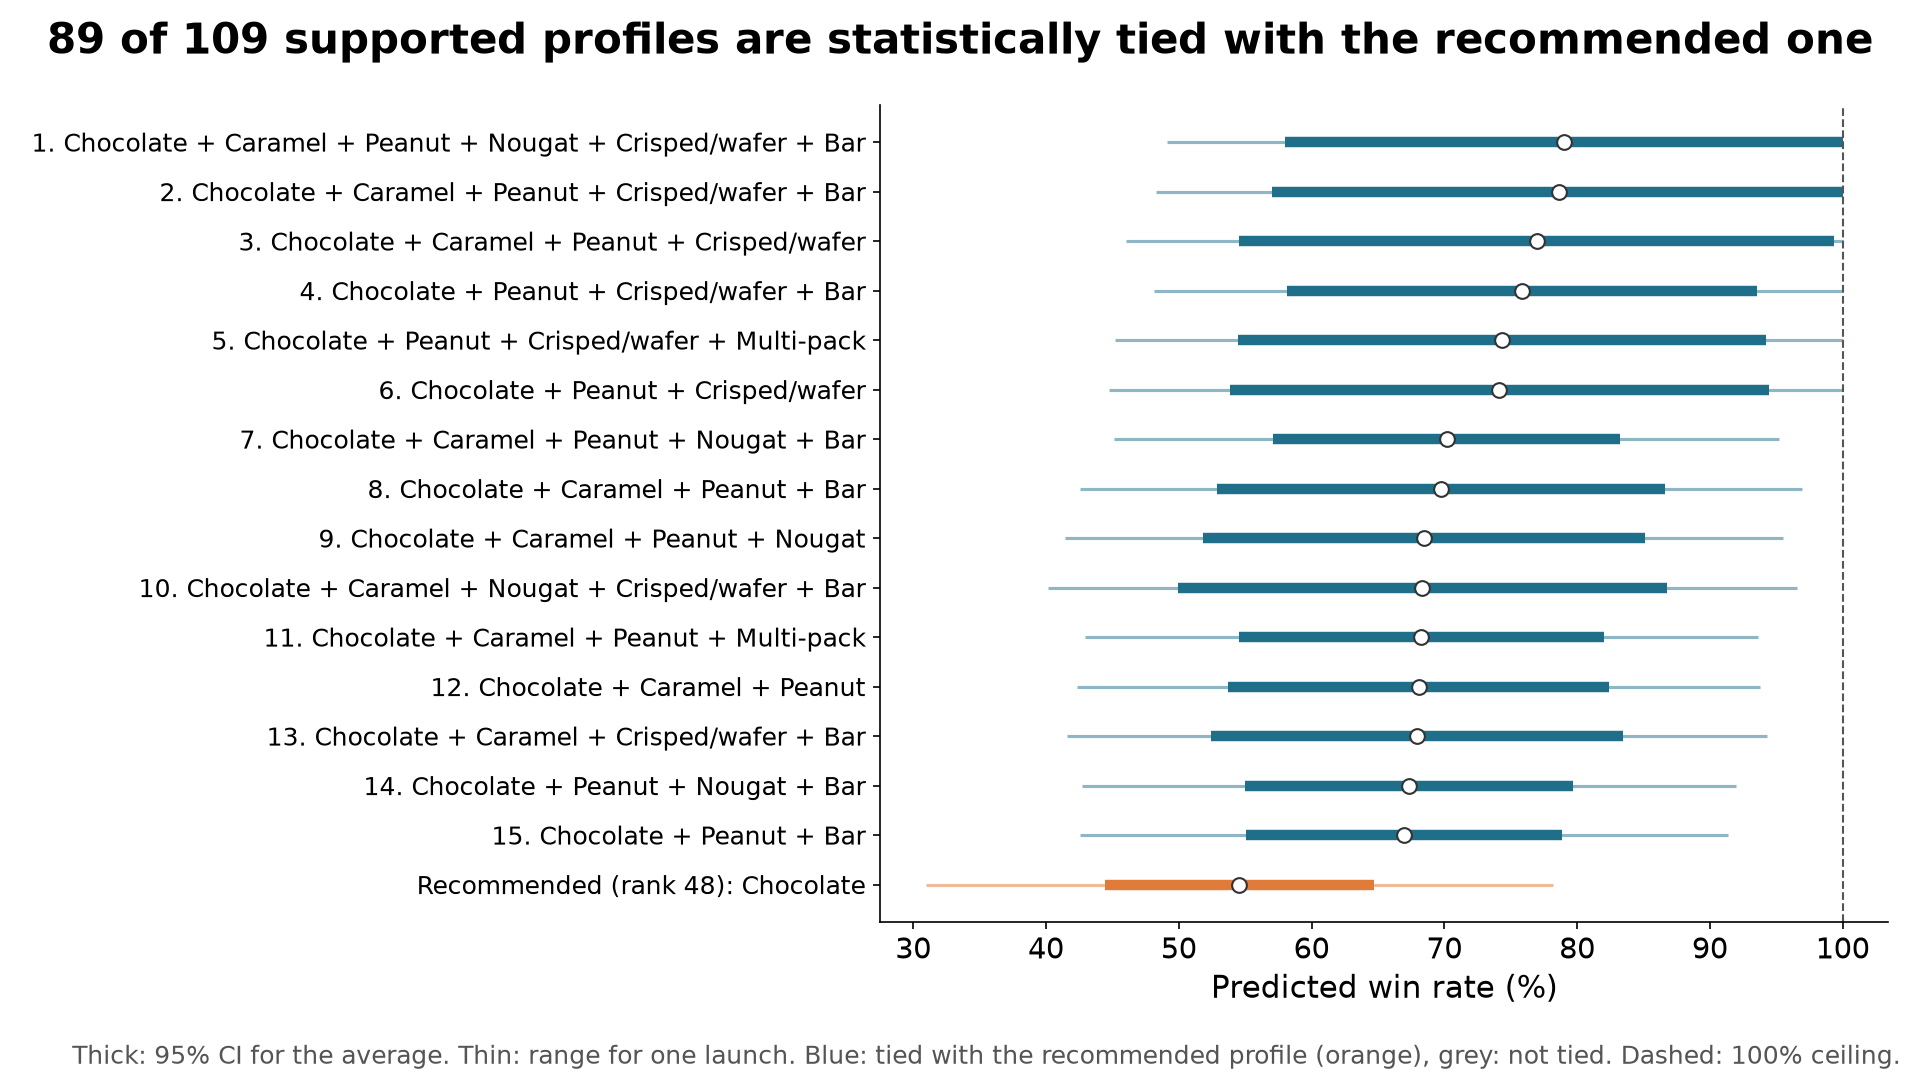
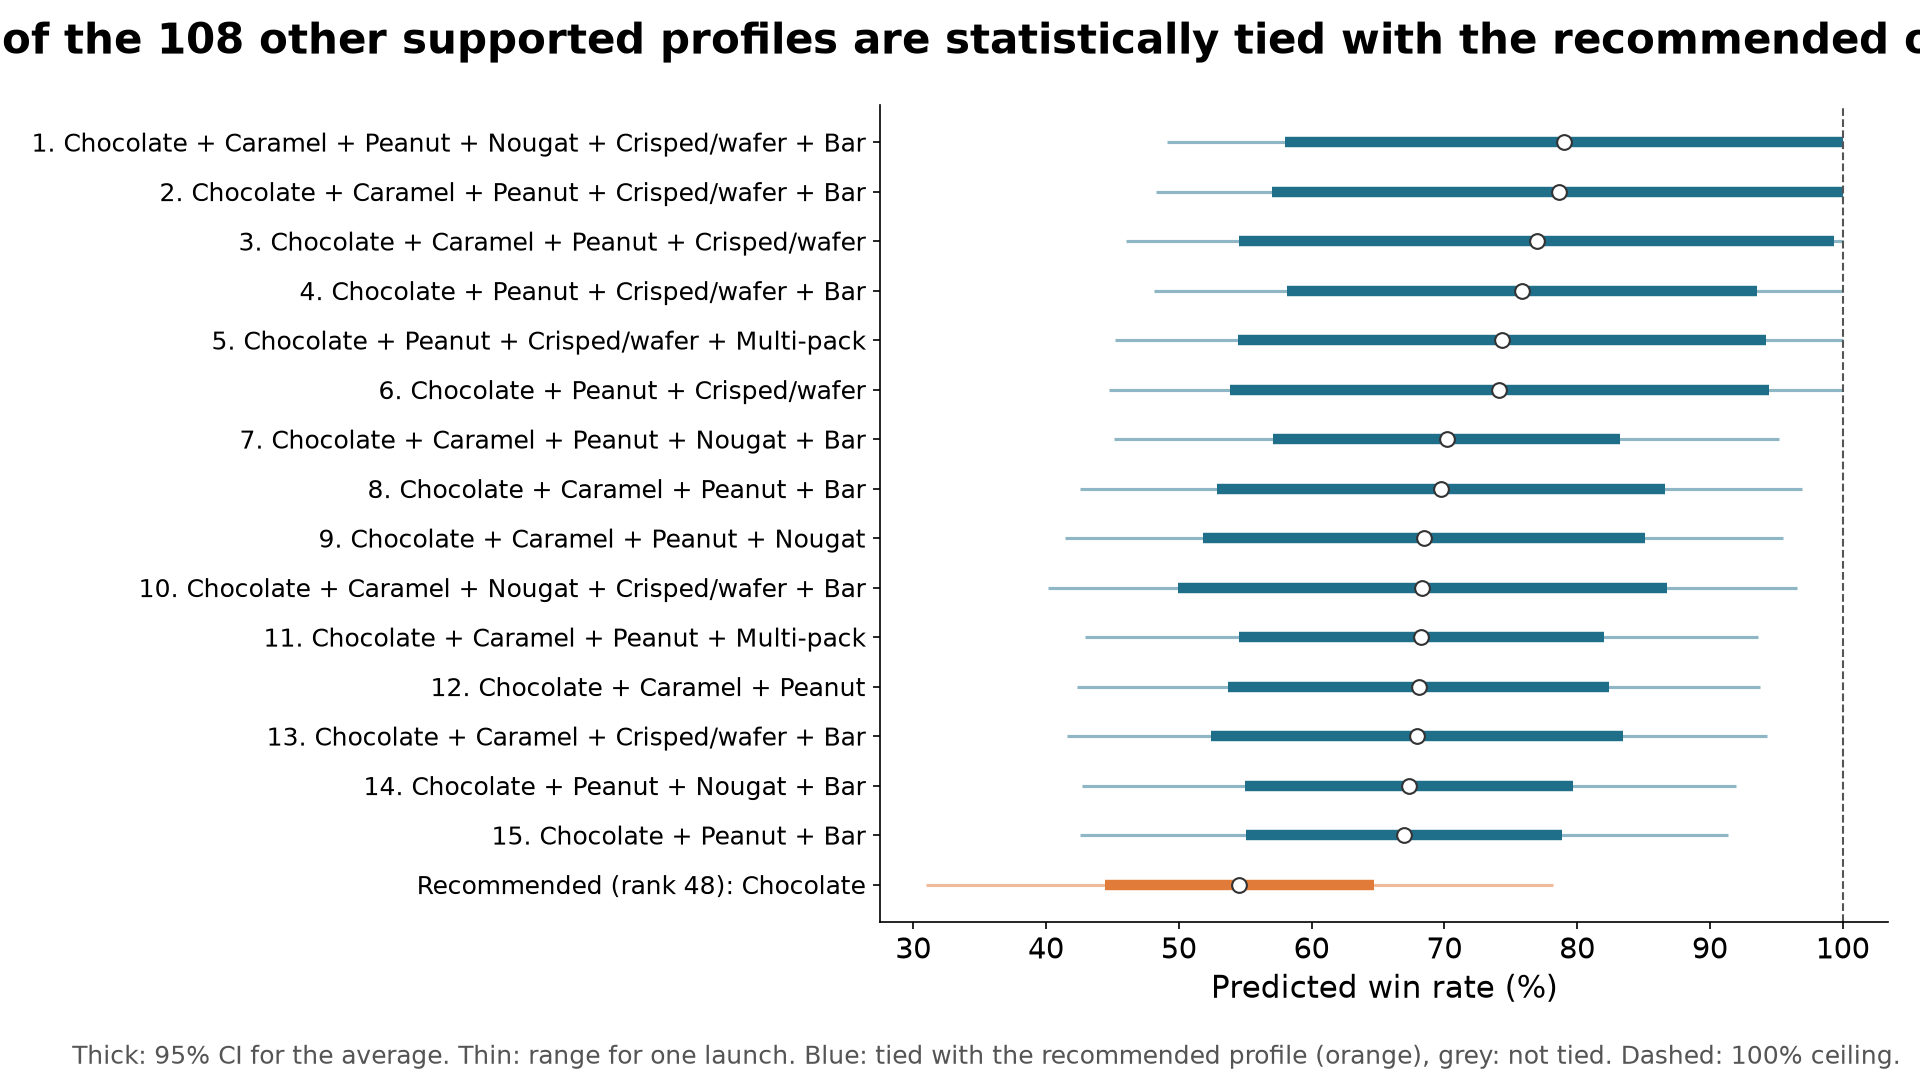
fix: stop counting the primary profile as tied with itself
Its gap to itself is exactly zero, so it was flagged as a tie and
inflated the count in the ranked-profiles title by one. The title now
counts ties among the other supported profiles.

Changed region(s): [[0.0, 0.0, 1.0, 0.0611]]

diff --git a/tests/test_pipeline.py b/tests/test_pipeline.py
@@ -536,11 +536,12 @@ def test_ties_with_the_primary_profile_are_flagged_and_counted(bundle):
     primary = bundle["recommendation"]["primary"]
     by_attributes = {tuple(r["attributes"].values()): r for r in ranked}
 
-    assert by_attributes[tuple(primary["attributes"].values())]["tied_with_primary"]
+    # The primary profile's gap to itself is zero; it must not count as a tie.
+    assert not by_attributes[tuple(primary["attributes"].values())]["tied_with_primary"]
     assert bundle["profiles"]["n_tied_with_primary"] == sum(
         r["tied_with_primary"] for r in ranked
     )
-    assert 1 < bundle["profiles"]["n_tied_with_primary"] < len(ranked)
+    assert 1 < bundle["profiles"]["n_tied_with_primary"] < len(ranked) - 1
 
 
 def test_cookie_vs_gummy_compares_real_product_types(bundle):

diff --git a/src/candy/profiles.py b/src/candy/profiles.py
@@ -151,10 +151,13 @@ def evidence_tiers(model: FitResult, confirmed: set[str]) -> dict[str, dict[str,
 
 
 def mark_ties(ranked: list[dict], scorer: ProfileScorer, primary: dict[str, int]) -> list[dict]:
-    """Flag each ranked profile whose predicted gap to the primary profile has
-    a CI that includes zero: the data cannot tell the two apart."""
+    """Flag each other ranked profile whose predicted gap to the primary
+    profile has a CI that includes zero: the data cannot tell the two apart.
+    The primary profile is not tied with itself."""
 
     def tied(attributes: dict[str, int]) -> bool:
+        if attributes == primary:
+            return False
         gap = scorer.gap(attributes, primary)
         return bool(gap.ci_low <= 0 <= gap.ci_high)
 

diff --git a/src/candy/figures.py b/src/candy/figures.py
@@ -212,7 +212,7 @@ def ranked_profiles_chart(
     )
     ax.set_xlabel("Predicted win rate (%)")
     fig.suptitle(
-        f"{n_tied} of {len(ranked)} supported profiles are statistically tied "
+        f"{n_tied} of the {len(ranked) - 1} other supported profiles are statistically tied "
         "with the recommended one",
         fontsize=20,
         fontweight="bold",
